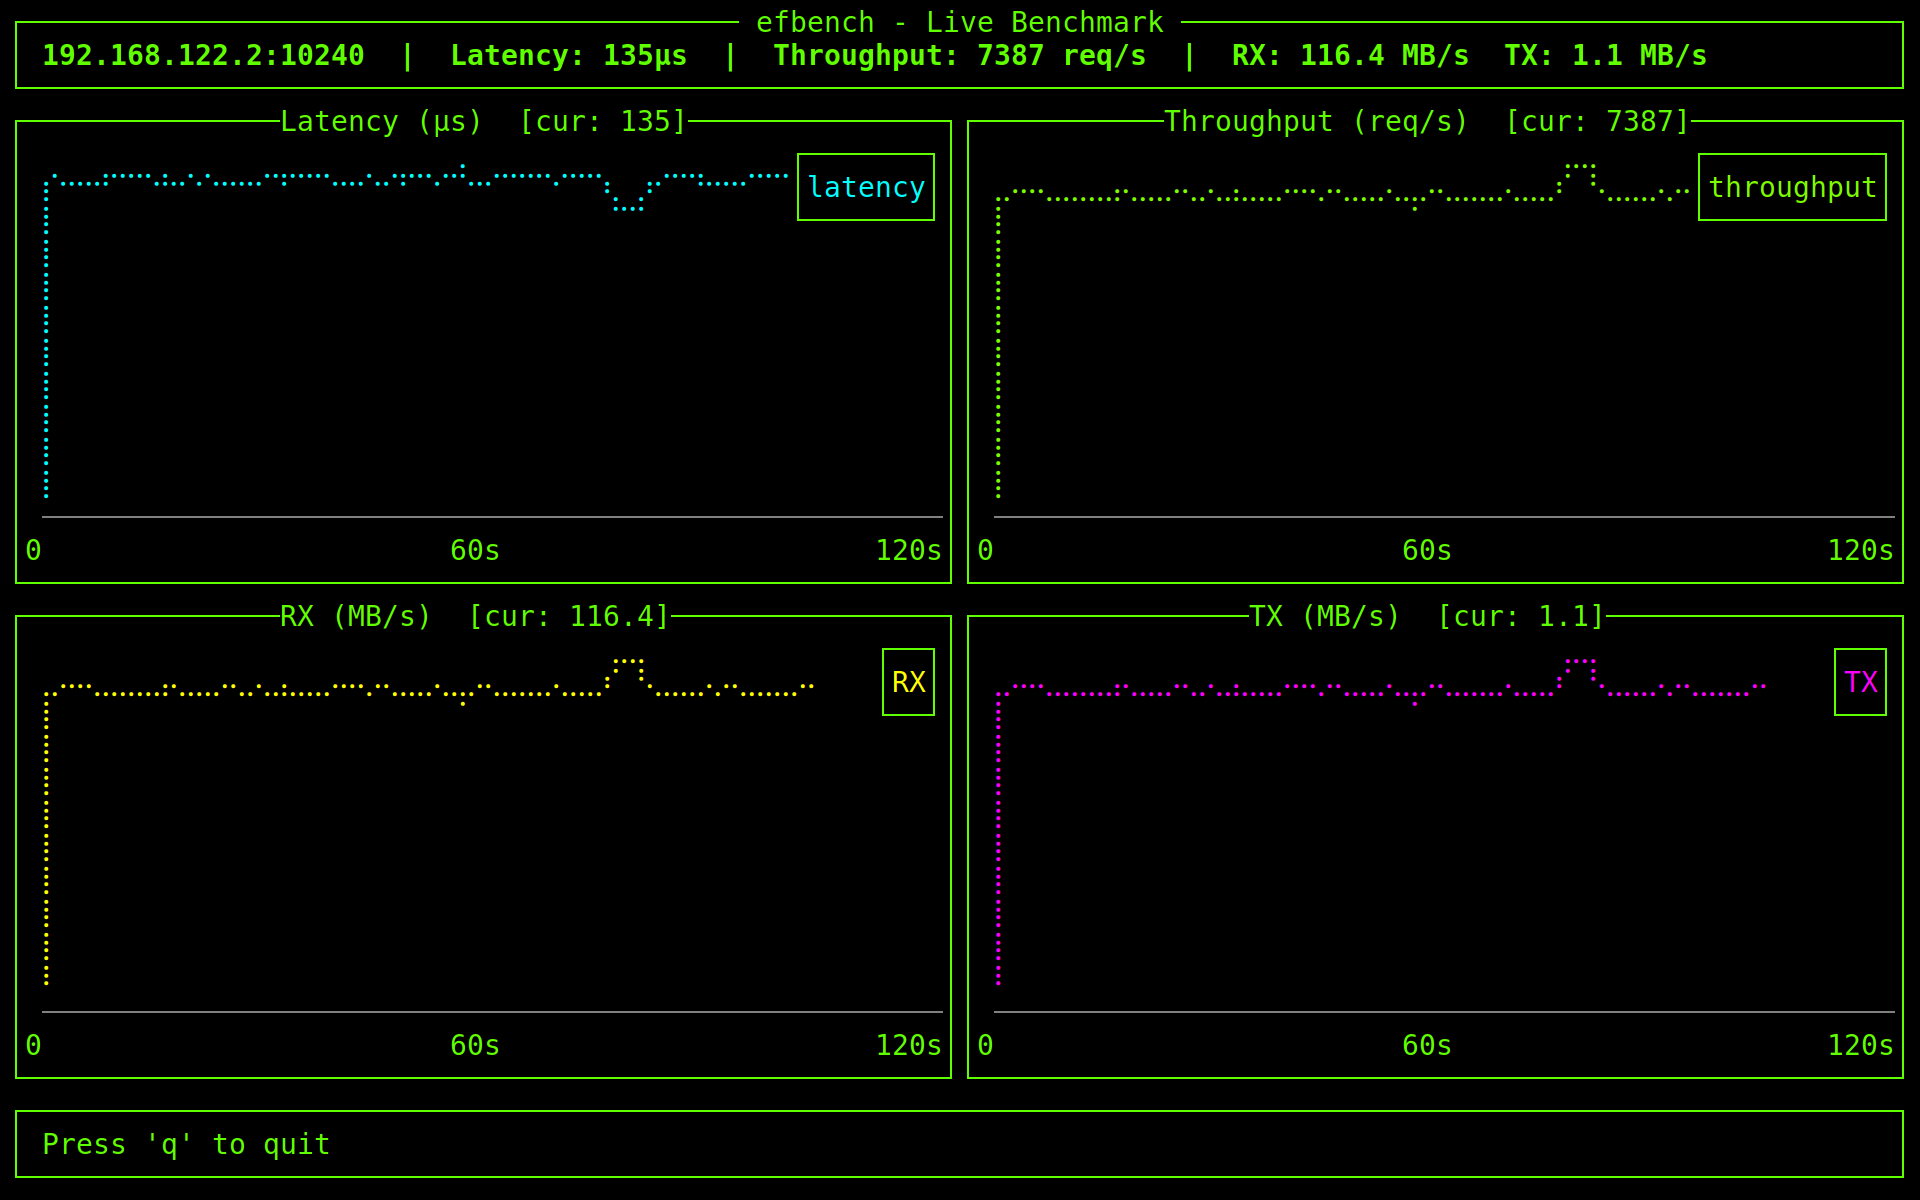
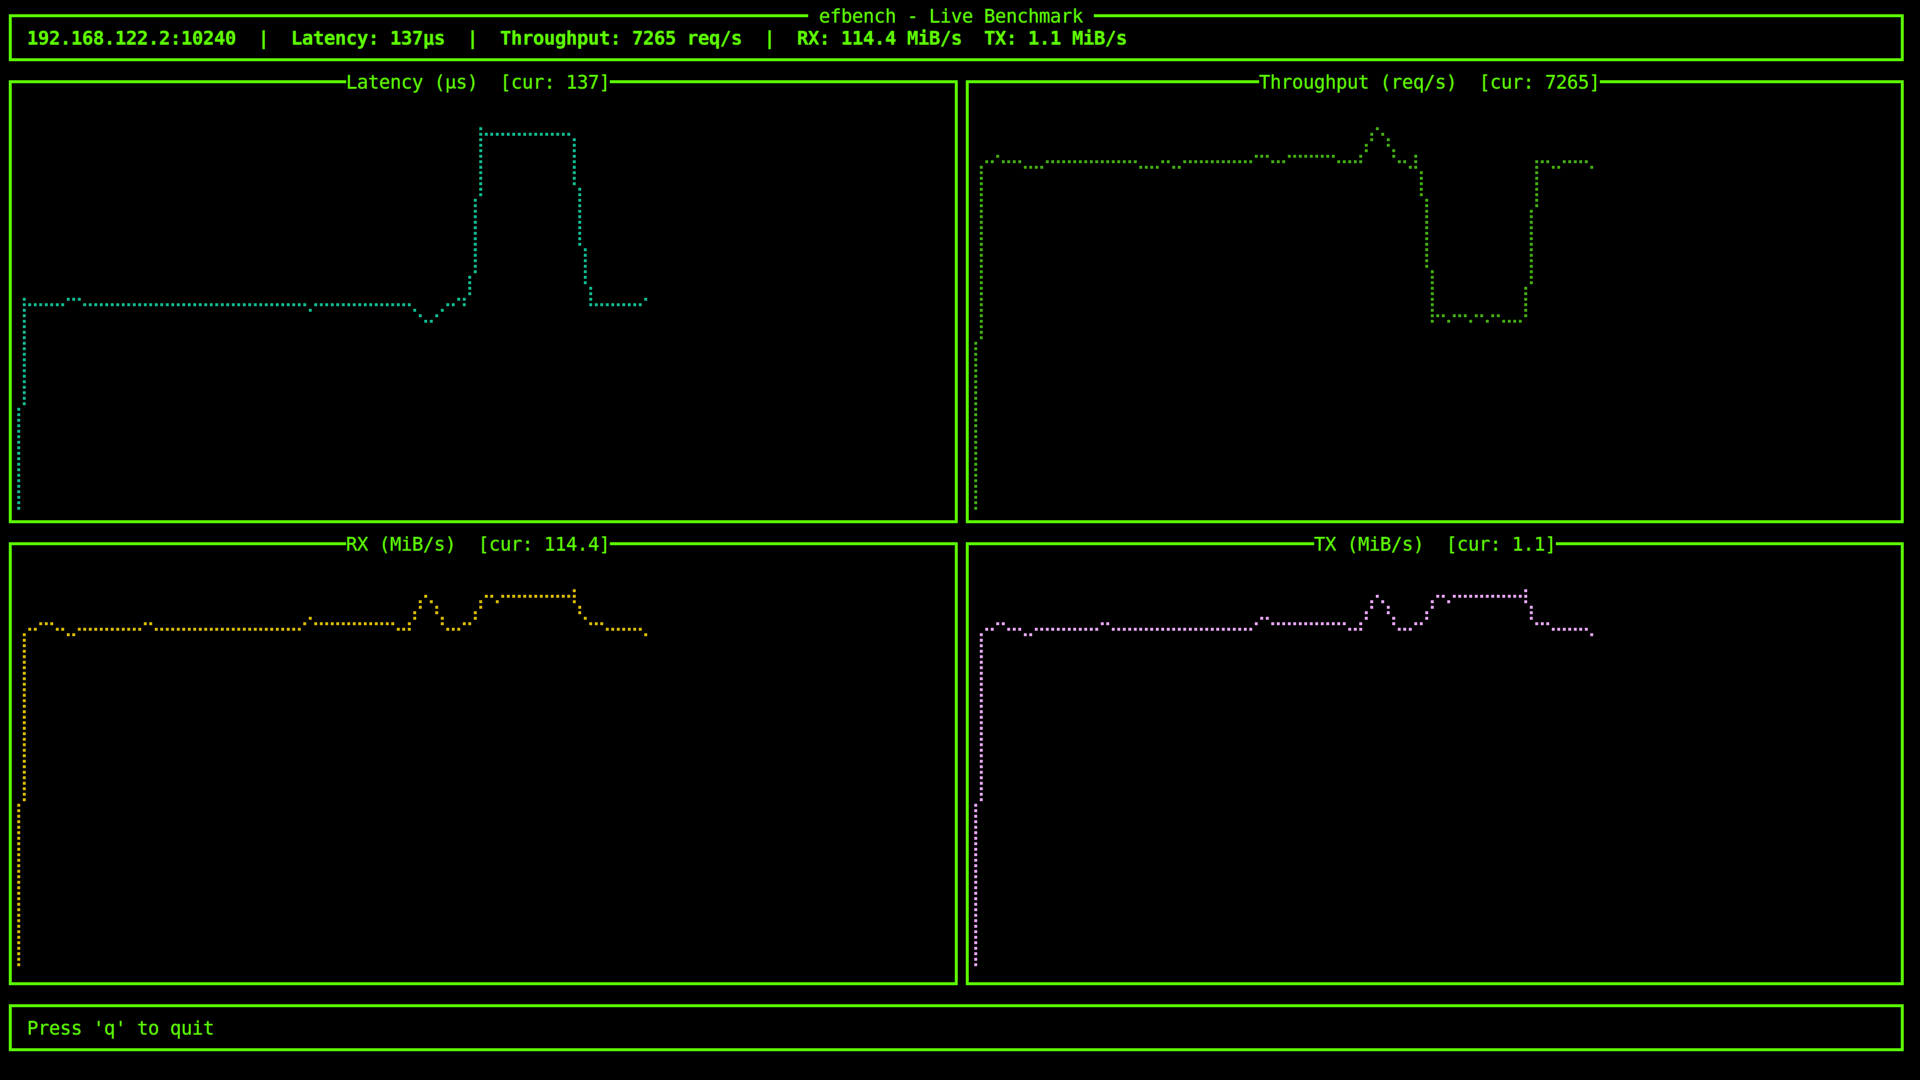
Include plot image also

diff --git a/README.md b/README.md
@@ -18,12 +18,12 @@ cargo run --bin efbench-server -- <SRV_IP> <SRV_PORT>
 TUI interface to display the benchmark results in real-time using run chart
 for above metrics.
 
-![efbench TUI](efbench_tui.png)
-
 ```bash
 cargo run --bin efbench-client -- \
     live --iface eth1 --ip <SRV_IP> --port <SRV_PORT>
 ```
+
+![efbench TUI](efbench_tui.png)
 
 ## Client side -- Plot mode
 
@@ -34,3 +34,6 @@ benchmark been stopped by `Ctrl-C` to stop the benchmark.
 cargo run --bin efbench-client -- \
     plot --iface eth1 --ip <SRV_IP> --port <SRV_PORT>
 ```
+
+![efbench plot](efbench_plot.png)
+
